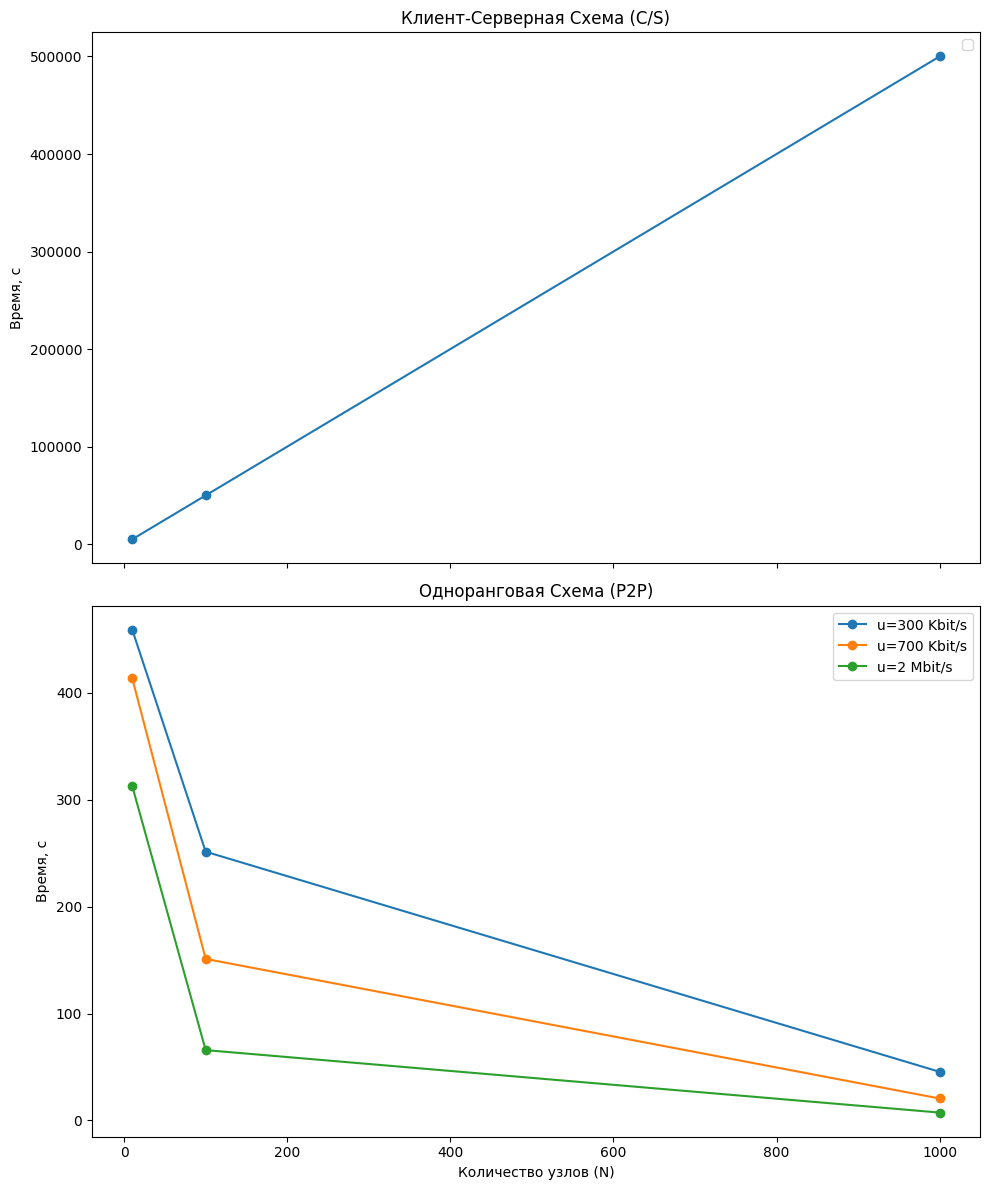
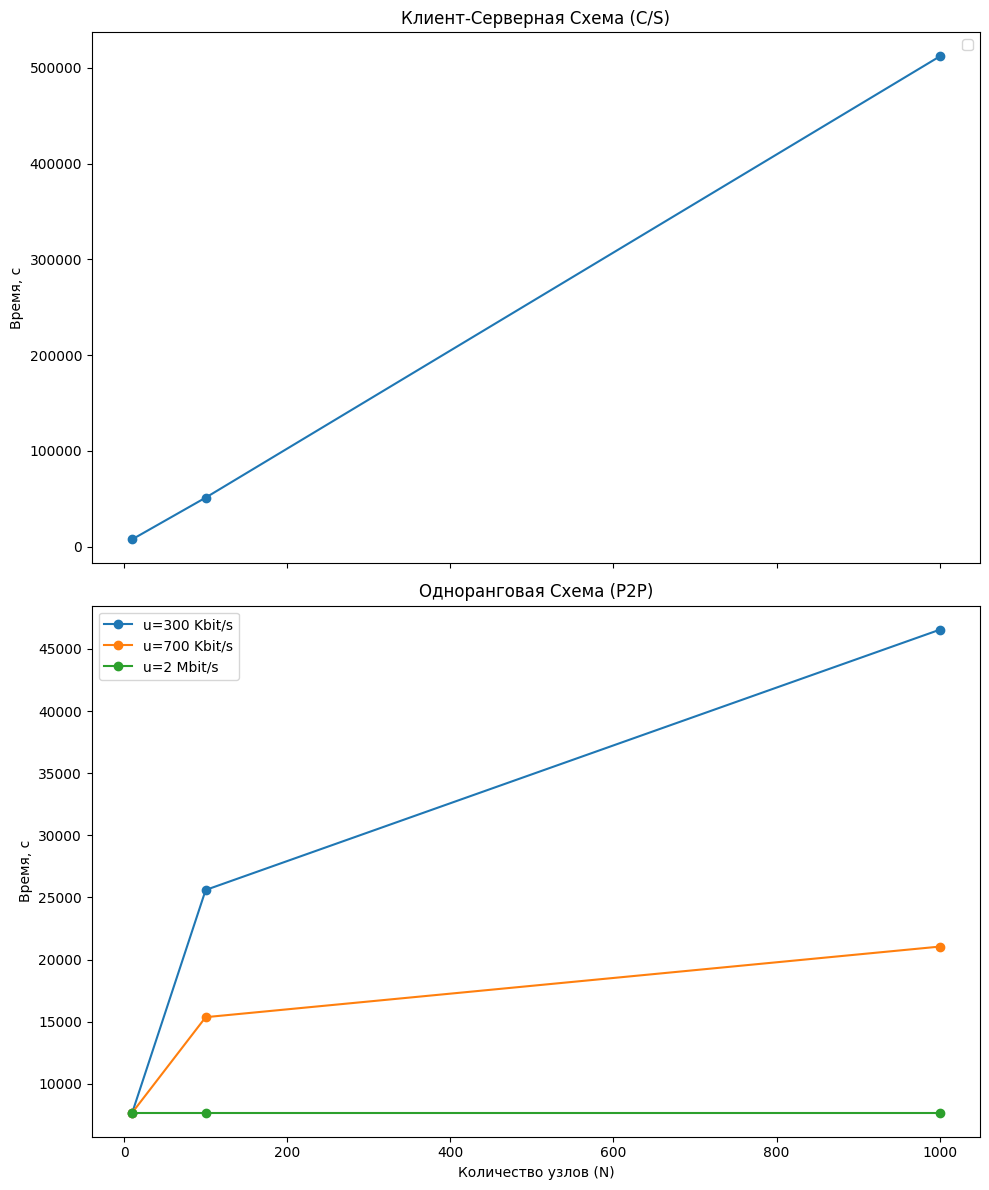
Fix problem 2

diff --git a/lab05/lab05.md b/lab05/lab05.md
@@ -176,18 +176,18 @@ $11 \cdot (RTT_h + TT_f) = 73626.66666677667$
 Код решения можно найти в [google colab](https://colab.research.google.com/drive/12st8eSuihr8VL7UMsvUSYdAP0vAf5Vao?usp=sharing)
 
 ```
-N: 10, CS: 5000.0
-N: 100, CS: 50000.0
-N: 1000, CS: 500000.0
-u: 0.3, N: 10, P2P: 458.71559633027516
-u: 0.3, N: 100, P2P: 251.25628140703517
-u: 0.3, N: 1000, P2P: 45.49590536851684
-u: 0.7, N: 10, P2P: 413.2231404958678
-u: 0.7, N: 100, P2P: 151.05740181268882
-u: 0.7, N: 1000, P2P: 20.567667626491158
-u: 2, N: 10, P2P: 312.5
-u: 2, N: 100, P2P: 65.78947368421052
-u: 2, N: 1000, P2P: 7.396449704142012
+N: 10, CS: 7680.0
+N: 100, CS: 51200.0
+N: 1000, CS: 512000.0
+u: 0.3, N: 10, P2P: 7680.0
+u: 0.3, N: 100, P2P: 25600.0
+u: 0.3, N: 1000, P2P: 46545.454545454544
+u: 0.7, N: 10, P2P: 7680.0
+u: 0.7, N: 100, P2P: 15360.0
+u: 0.7, N: 1000, P2P: 21041.095890410958
+u: 2, N: 10, P2P: 7680.0
+u: 2, N: 100, P2P: 7680.0
+u: 2, N: 1000, P2P: 7680.0
 ```
 
 ![](images/problem_2.png)
